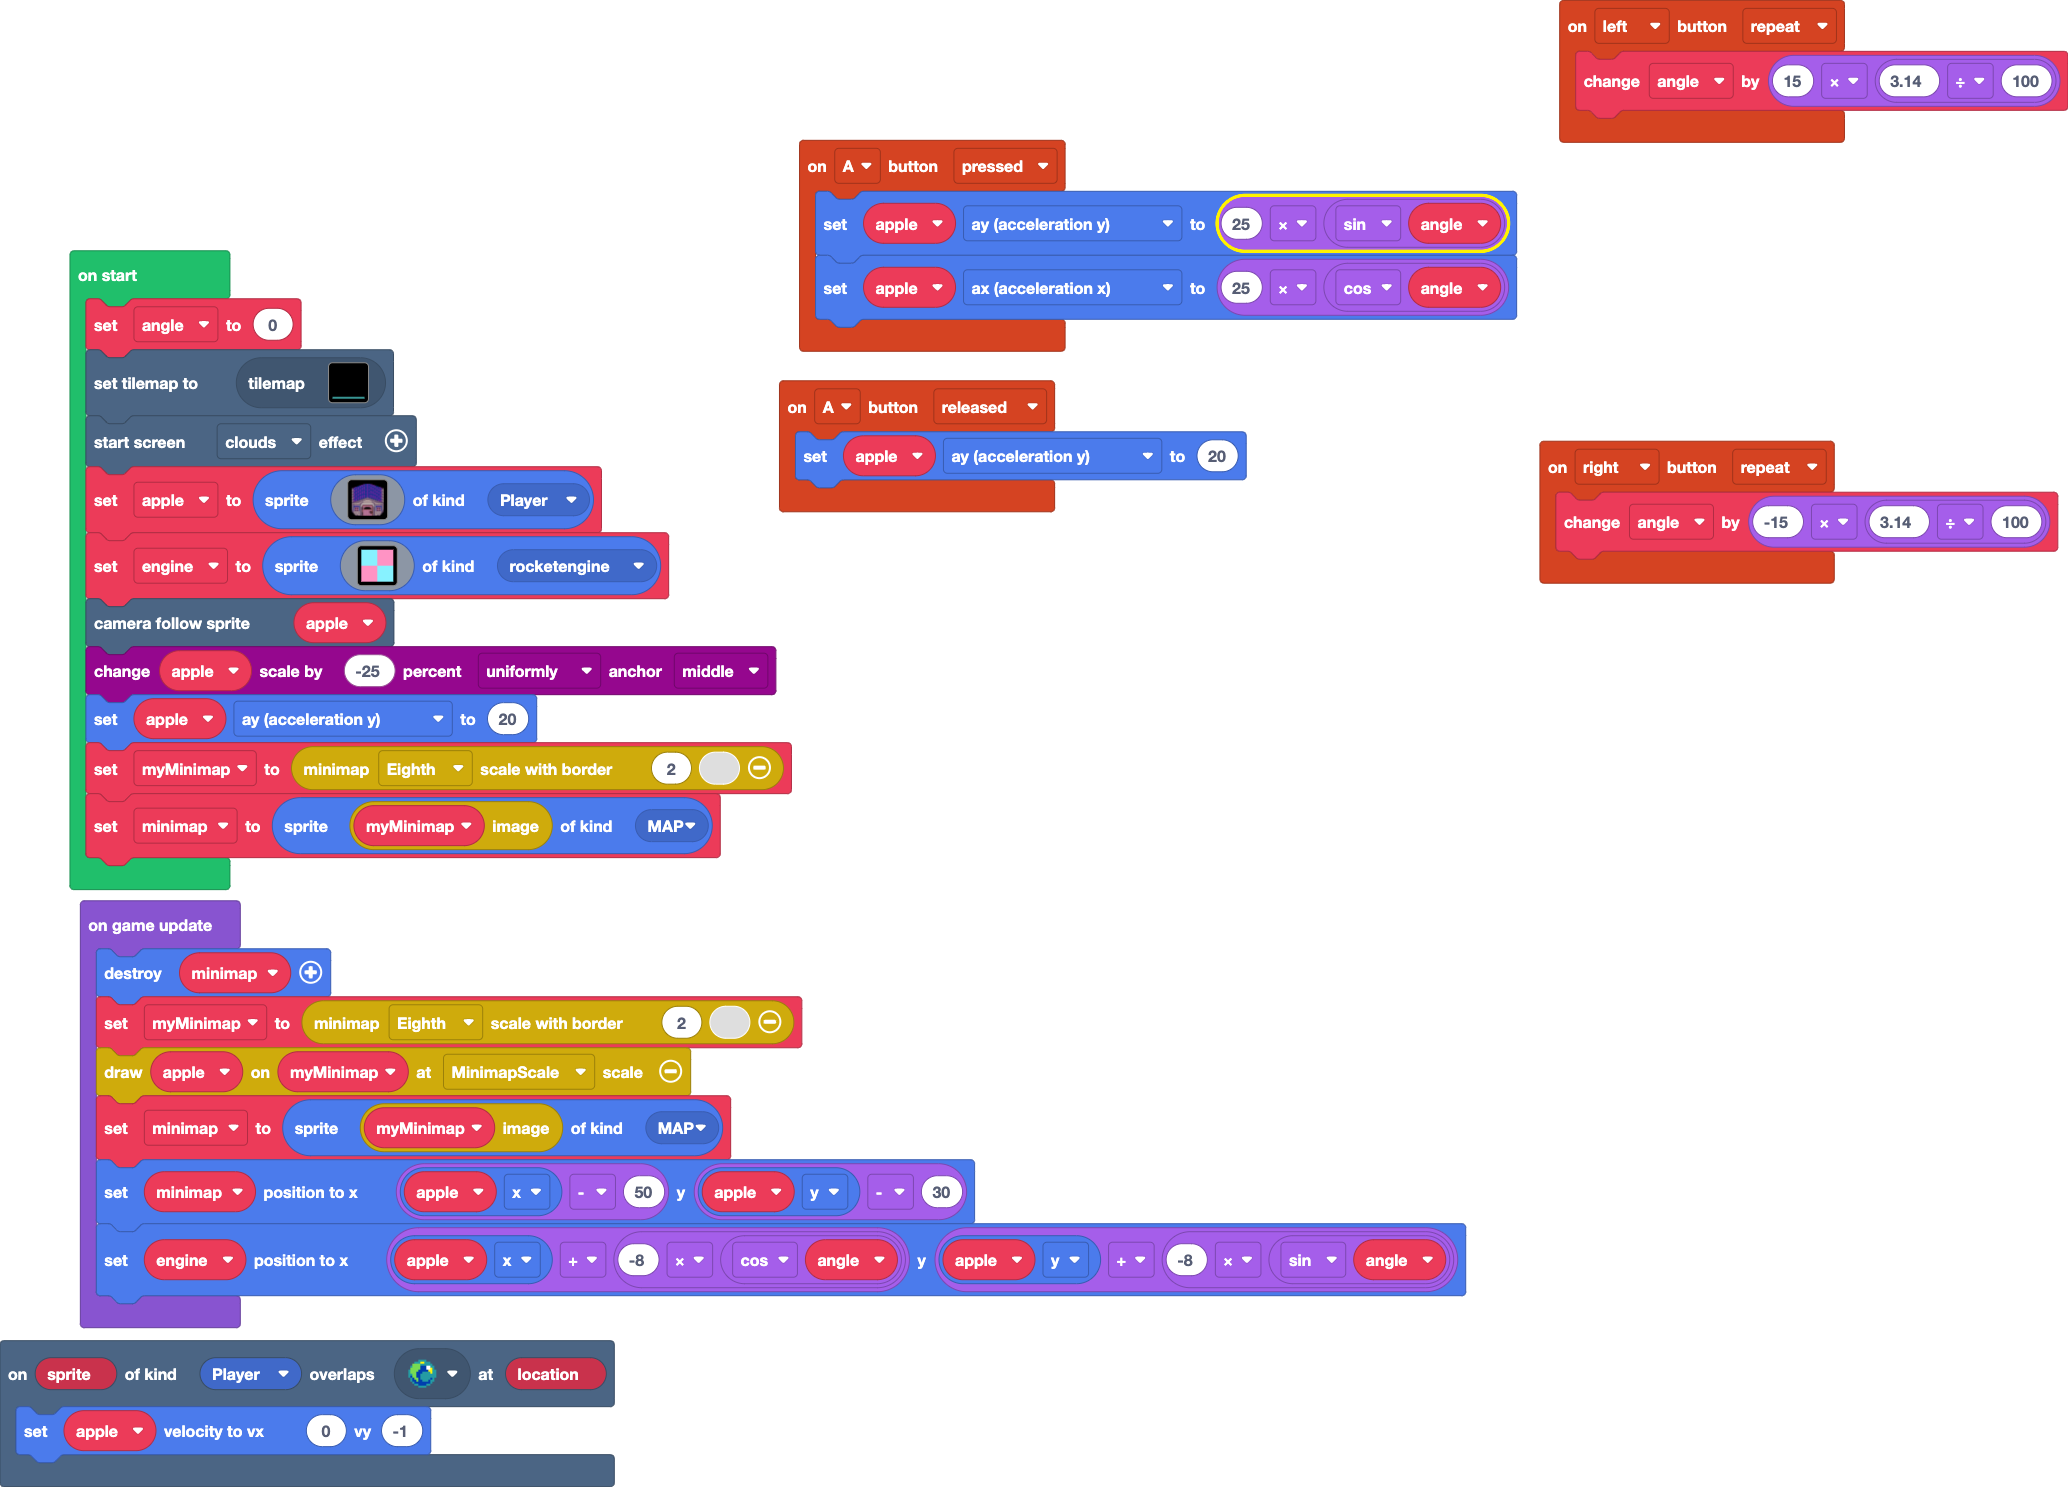
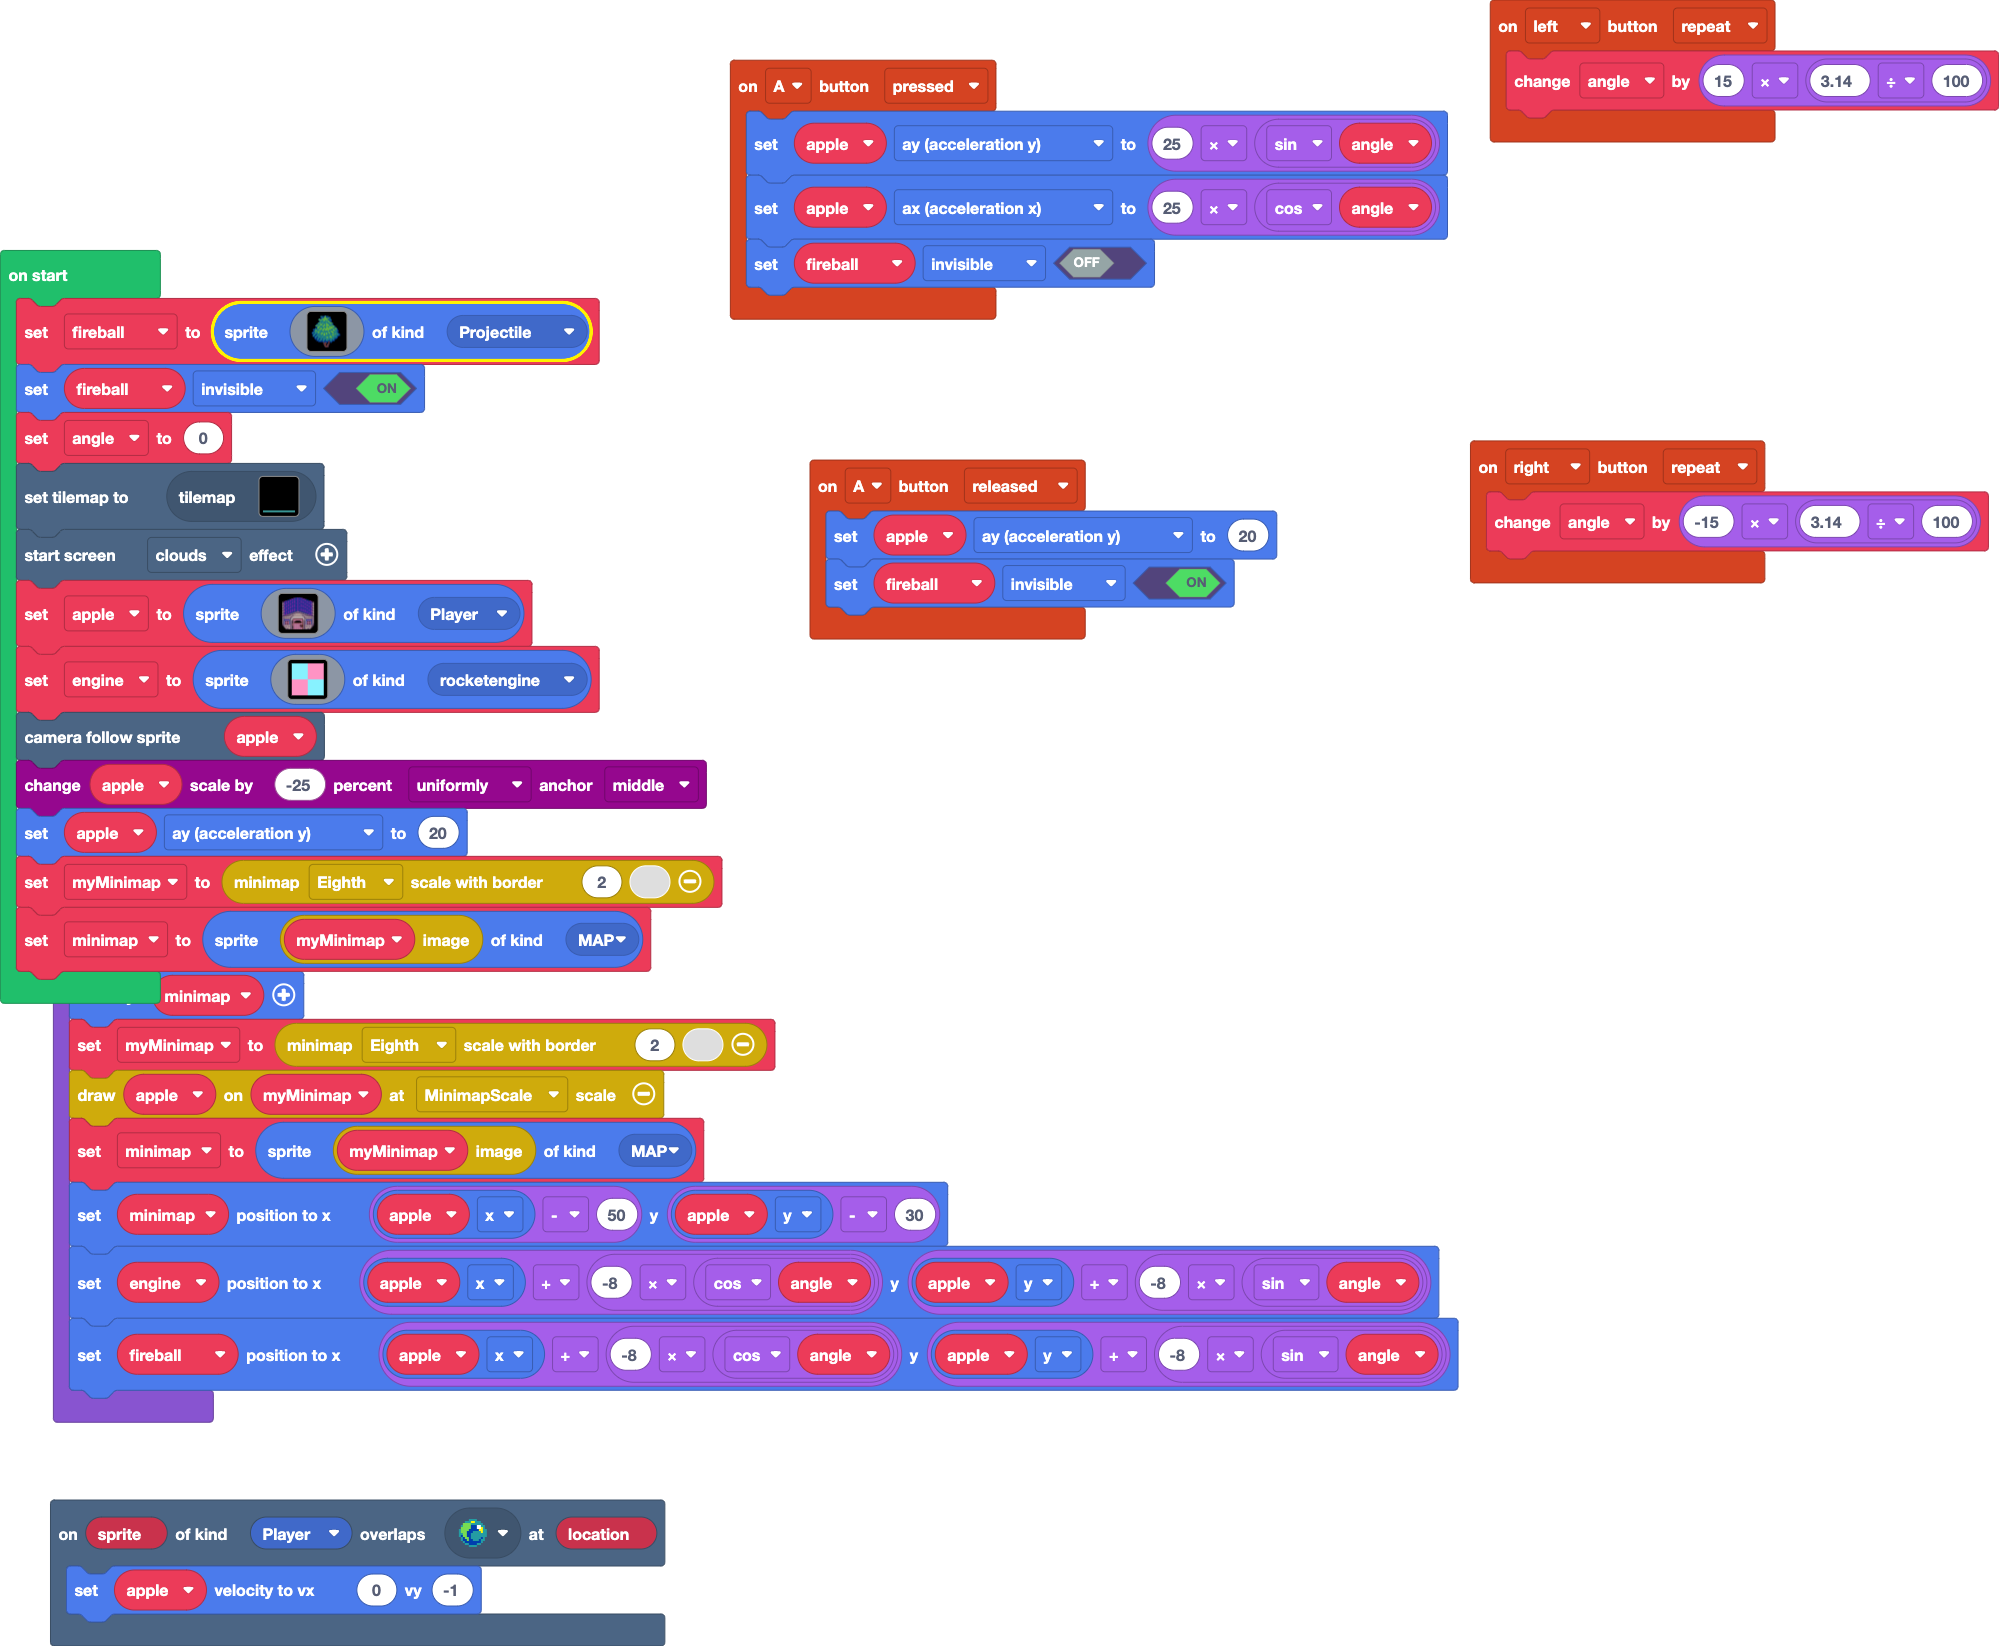
fireball finished

diff --git a/main.ts b/main.ts
@@ -5,6 +5,7 @@ namespace SpriteKind {
 controller.A.onEvent(ControllerButtonEvent.Pressed, function () {
     apple.ay = 25 * Math.sin(angle)
     apple.ax = 25 * Math.cos(angle)
+    fireball.setFlag(SpriteFlag.Invisible, false)
 })
 controller.right.onEvent(ControllerButtonEvent.Repeated, function () {
     angle += -15 * (3.14 / 100)
@@ -14,12 +15,58 @@ scene.onOverlapTile(SpriteKind.Player, sprites.dungeon.collectibleBlueCrystal, f
 })
 controller.A.onEvent(ControllerButtonEvent.Released, function () {
     apple.ay = 20
+    fireball.setFlag(SpriteFlag.Invisible, true)
 })
 controller.left.onEvent(ControllerButtonEvent.Repeated, function () {
     angle += 15 * (3.14 / 100)
 })
 let apple: Sprite = null
 let angle = 0
+let fireball: Sprite = null
+fireball = sprites.create(img`
+    ................86..................
+    ...........6688867886...............
+    ...........8666877688868............
+    ............868777767768............
+    .........688667777776688............
+    ........67767777777778666...........
+    .........6776667767666868...........
+    ..........866667667677688...........
+    .........8666666666667778...........
+    ........667766666666666676..........
+    .......67766667666776667776.........
+    ......886667776676777666688.........
+    .....67766777667767777666768........
+    ....6776666666777667776666776.......
+    .....8667776667766676677776776......
+    ......8777666666667776777776688.....
+    ....6887766776677677777777776776....
+    ..8866666677767777777777766666778...
+    .86666666777667767777766666776668...
+    ..88677666666777677677666667776668..
+    ..86776677666666666666667776666668..
+    886666677766667666666776677766668...
+    6668666676667766767767766677666668..
+    88866666666777677677667666666776668.
+    .86668866666766776776666667766666668
+    .86688666666666776666667667776666688
+    .668866666666666666666677666666688..
+    ..8866686666666666677667776666668...
+    ...866886666666666677667776666668...
+    ...86886668666666667666666666888....
+    ....88866886686666666666666668......
+    ......86886668666866668666868.......
+    ......88866688668866688866888.......
+    ........8888888688888ce868..........
+    ..............e88e88.ec.8...........
+    ...............eeee..e..............
+    ...............ceef.ce..............
+    ...............ceefcec..............
+    ...............feefce...............
+    ...............fceeec...............
+    ...............ffceec...............
+    `, SpriteKind.Projectile)
+fireball.setFlag(SpriteFlag.Invisible, true)
 angle = 0
 tiles.setCurrentTilemap(tilemap`level1`)
 effects.clouds.startScreenEffect()
@@ -89,4 +136,5 @@ game.onUpdate(function () {
     minimap2 = sprites.create(minimap.getImage(myMinimap), SpriteKind.MAP)
     minimap2.setPosition(apple.x - 50, apple.y - 30)
     engine.setPosition(apple.x + -8 * Math.cos(angle), apple.y + -8 * Math.sin(angle))
+    fireball.setPosition(apple.x + -8 * Math.cos(angle), apple.y + -8 * Math.sin(angle))
 })
